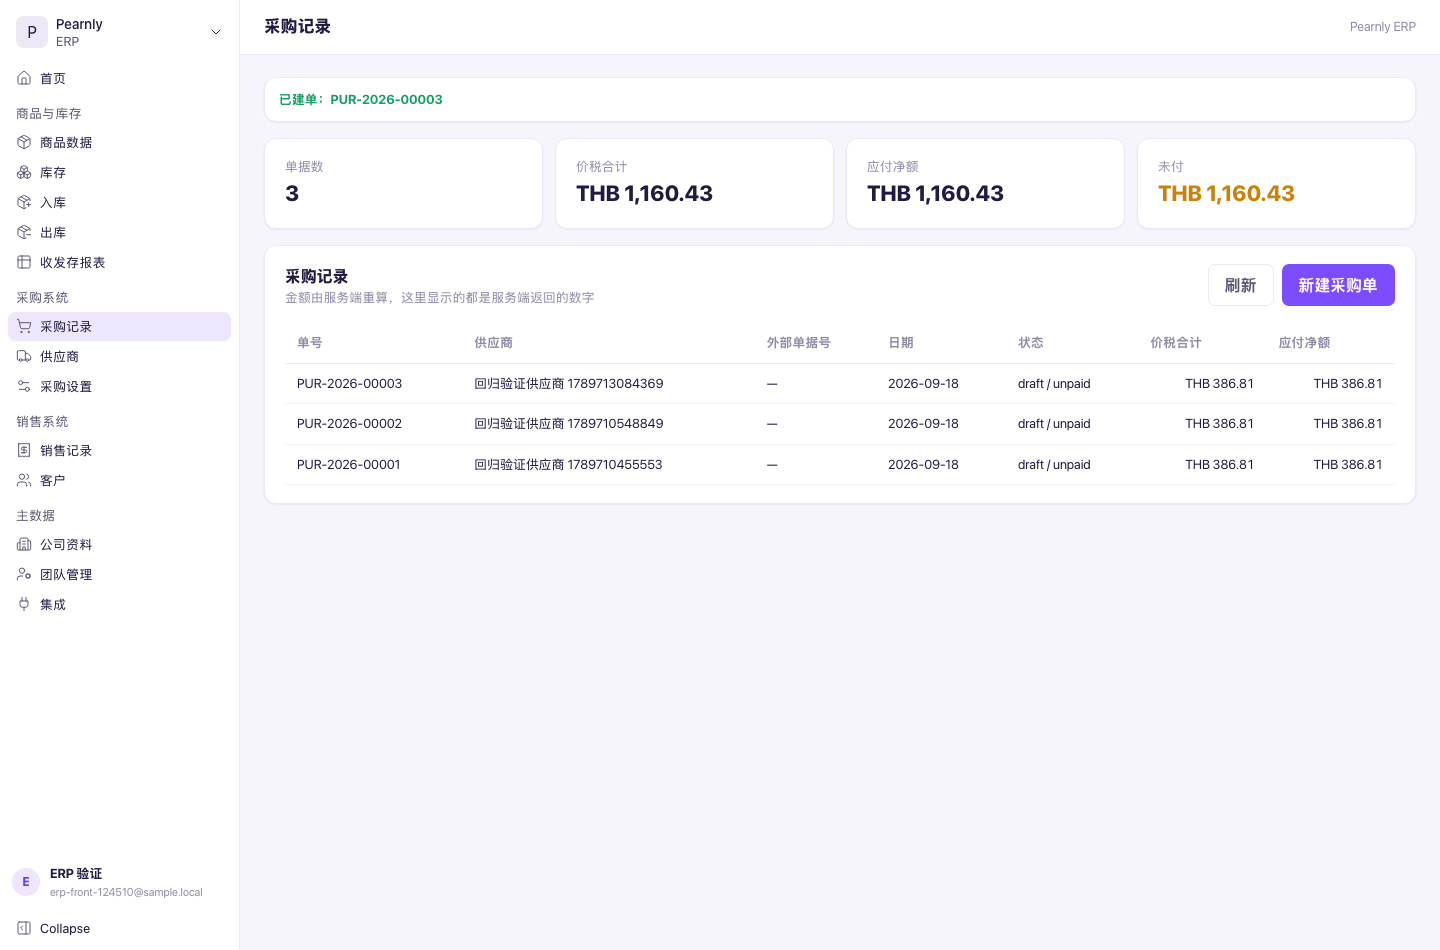
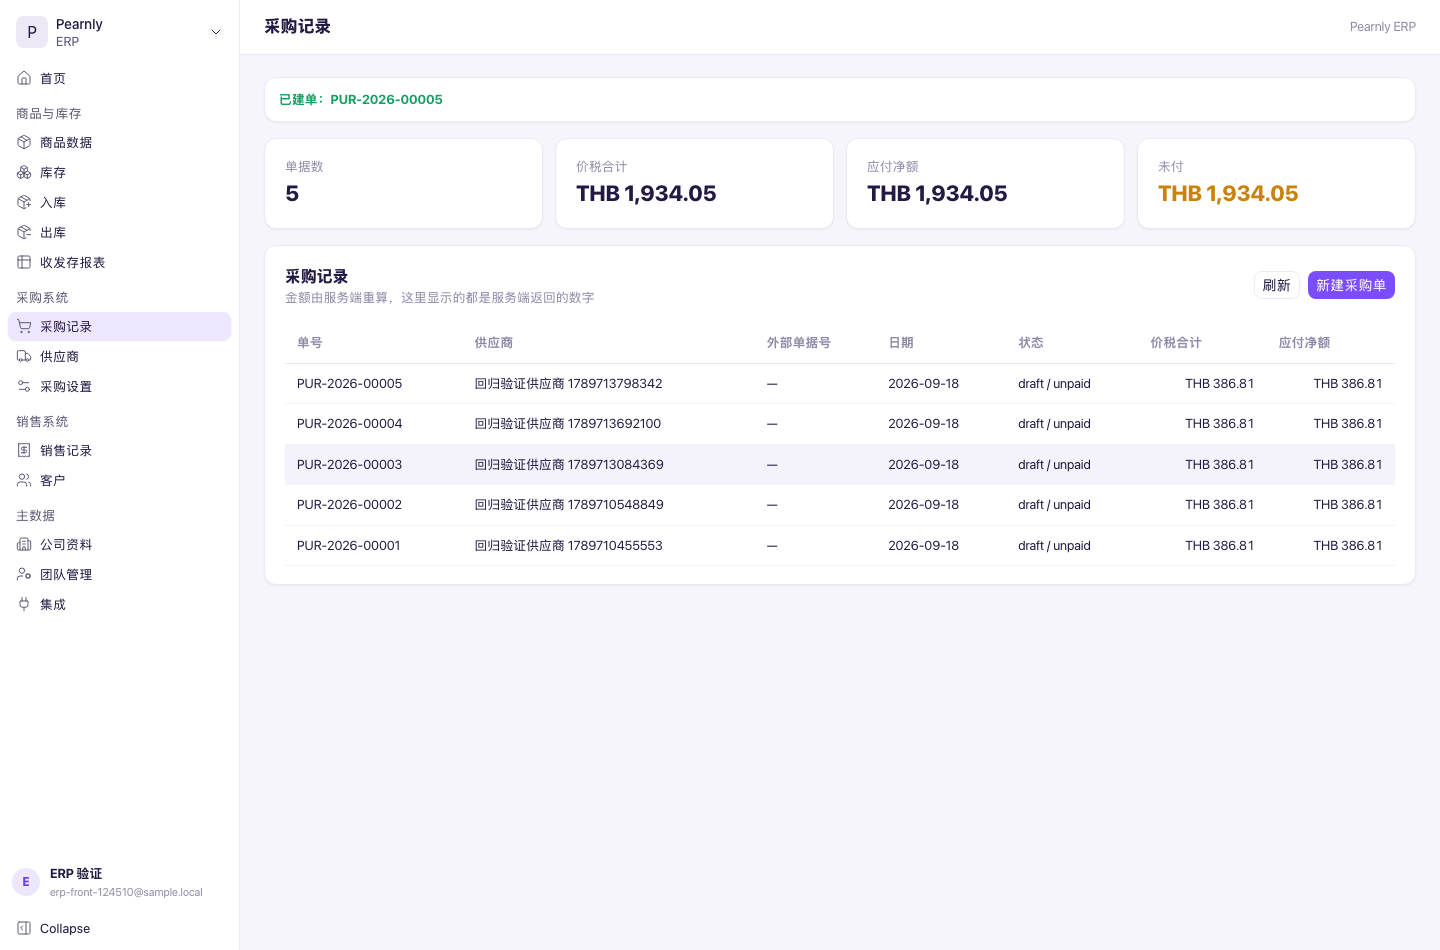
控件改用官方原生的尺寸与间距，只有配色是我们的
用户 2026-09-18："按钮大小，间距都用官方原生的，操作习惯还是用我们的。"

落法：
- 按钮用官方 Button 组件（尺寸档 sm/md/lg、内边距、圆角、悬停禁用态都归它）
- 输入框用官方原生类 form-input（高度 h-7、圆角、内边距都是官方的）
- 配色用 .pn-primary 补（官方 Button 只有 gray/blue/green/red，没有我们的紫）——
  它只改配色，尺寸一概不碰
- 页面布局与操作流程不变（表单分几列、按钮放哪、先做什么，都是我们的）

删掉原来手写的 .pn-btn / .pn-input：自己定一套尺寸就是第二套设计语言，
与"用官方原生的"相反。

实测值（验证脚本新增 4 条断言盯着，改了尺寸就失败）：
  按钮高 28px（官方 sm 档 h-7）、内边距 0 8px、圆角 8px
  官方原生输入框同样 28px 高
  主按钮底色 rgb(124,77,255) = 我们的 --accent

20 项全过。

diff --git a/frontend/src/pages/purchase/PurchasePage.vue b/frontend/src/pages/purchase/PurchasePage.vue
@@ -8,6 +8,7 @@
 // 金额**不在前端算**：服务端会从小发明细重算小计/增值税/价税合计/应付净额。
 // 这里展示的都是服务端返回的数字。
 import { computed, onMounted, reactive, ref } from "vue";
+import { Button } from "frappe-ui";
 import { call, ApiError } from "../../lib/api";
 
 interface Row {
@@ -178,12 +179,22 @@ onMounted(refresh);
           <div class="pn-muted">金额由服务端重算，这里显示的都是服务端返回的数字</div>
         </div>
         <div style="display: flex; gap: 8px">
-          <button class="pn-btn pn-btn--ghost" :disabled="loading" @click="refresh">
-            {{ loading ? "加载中…" : "刷新" }}
-          </button>
-          <button class="pn-btn" @click="showForm = !showForm">
-            {{ showForm ? "收起" : "新建采购单" }}
-          </button>
+          <!-- 尺寸/间距用官方原生的（Button 自带尺寸档与内边距），只有主色用我们的
+               （pn-primary）—— 操作习惯与流程不变。 -->
+          <Button
+            variant="outline"
+            theme="gray"
+            :label="loading ? '加载中…' : '刷新'"
+            :disabled="loading"
+            @click="refresh"
+          />
+          <Button
+            variant="solid"
+            theme="gray"
+            class="pn-primary"
+            :label="showForm ? '收起' : '新建采购单'"
+            @click="showForm = !showForm"
+          />
         </div>
       </div>
 
@@ -191,15 +202,15 @@ onMounted(refresh);
         <div style="display: grid; grid-template-columns: 2fr 1fr 1fr; gap: 12px">
           <label>
             <span class="pn-muted">供应商</span>
-            <input v-model="draft.supplier_name" class="pn-input" placeholder="供应商名称" />
+            <input v-model="draft.supplier_name" class="form-input w-full" placeholder="供应商名称" />
           </label>
           <label>
             <span class="pn-muted">单据日期</span>
-            <input v-model="draft.doc_date" type="date" class="pn-input" />
+            <input v-model="draft.doc_date" type="date" class="form-input w-full" />
           </label>
           <label>
             <span class="pn-muted">外部单据号</span>
-            <input v-model="draft.doc_no" class="pn-input" placeholder="可留空" />
+            <input v-model="draft.doc_no" class="form-input w-full" placeholder="可留空" />
           </label>
         </div>
 
@@ -210,21 +221,30 @@ onMounted(refresh);
             :key="index"
             style="display: grid; grid-template-columns: 3fr 1fr 1fr 1fr auto; gap: 8px; margin-bottom: 8px"
           >
-            <input v-model="line.description" class="pn-input" placeholder="品名 / 说明" />
-            <input v-model.number="line.qty" type="number" step="0.01" class="pn-input" placeholder="数量" />
-            <input v-model.number="line.unit_price" type="number" step="0.01" class="pn-input" placeholder="单价" />
-            <input v-model.number="line.vat_rate" type="number" step="0.01" class="pn-input" placeholder="税率%" />
-            <button class="pn-btn pn-btn--ghost" :disabled="draft.lines.length === 1" @click="removeLine(index)">
-              删
-            </button>
+            <input v-model="line.description" class="form-input w-full" placeholder="品名 / 说明" />
+            <input v-model.number="line.qty" type="number" step="0.01" class="form-input w-full" placeholder="数量" />
+            <input v-model.number="line.unit_price" type="number" step="0.01" class="form-input w-full" placeholder="单价" />
+            <input v-model.number="line.vat_rate" type="number" step="0.01" class="form-input w-full" placeholder="税率%" />
+            <Button
+              variant="outline"
+              theme="gray"
+              label="删"
+              :disabled="draft.lines.length === 1"
+              @click="removeLine(index)"
+            />
           </div>
-          <button class="pn-btn pn-btn--ghost" @click="addLine">加一行</button>
+          <Button variant="outline" theme="gray" label="加一行" @click="addLine" />
         </div>
 
         <div style="margin-top: 16px; display: flex; gap: 8px; align-items: center">
-          <button class="pn-btn" :disabled="!canSubmit" @click="submit">
-            {{ saving ? "提交中…" : "保存采购单" }}
-          </button>
+          <Button
+            variant="solid"
+            theme="gray"
+            class="pn-primary"
+            :label="saving ? '提交中…' : '保存采购单'"
+            :disabled="!canSubmit"
+            @click="submit"
+          />
           <span class="pn-muted">合计由服务端算，不用填</span>
         </div>
       </div>

diff --git a/frontend/src/styles/app.css b/frontend/src/styles/app.css
@@ -123,57 +123,29 @@ body {
   font-weight: 650;
 }
 
-/* 控件高度节奏沿用令牌（ADR-007：控件高度从 --ctrl-* 取） */
-.pn-btn {
-  display: inline-flex;
-  align-items: center;
-  justify-content: center;
-  gap: 6px;
-  padding: var(--ctrl-pad-y) var(--ctrl-pad-x);
-  border: 1px solid transparent;
-  border-radius: var(--radius);
-  font-size: var(--ctrl-font);
-  font-weight: 700;
-  cursor: pointer;
+/* ── 控件：尺寸/间距用官方原生的，只有颜色是我们的 ──────────────────────
+ *
+ * 用户 2026-09-18："按钮大小，间距都用官方原生的，操作习惯还是用我们的。"
+ *
+ * 所以按钮用官方 `Button` 组件（尺寸档 sm/md/lg 与内边距都归它），
+ * 输入框用官方原生类 `form-input`（高度 h-7、圆角、内边距都是官方的）。
+ *
+ * 这里**只**补官方没有的那一件事：主色。官方 Button 只有 gray/blue/green/red
+ * 四个主题，没有我们的紫，所以加一个只改配色的类，不改尺寸。
+ * 它必须靠"在样式表里排最后"来盖住官方工具类（见 main.ts 的引入顺序）。
+ */
+.pn-primary {
   background: var(--accent);
   color: var(--accent-ink);
 }
 
-.pn-btn:hover {
+.pn-primary:hover {
   background: var(--accent-deep);
 }
 
-.pn-btn:disabled {
+.pn-primary:disabled {
   opacity: 0.55;
   cursor: not-allowed;
-}
-
-.pn-btn--ghost {
-  background: var(--card);
-  border-color: var(--line);
-  color: var(--ink2);
-}
-
-.pn-btn--ghost:hover {
-  background: var(--line2);
-  color: var(--ink);
-}
-
-.pn-input {
-  width: 100%;
-  padding: var(--ctrl-pad-y) var(--ctrl-pad-x);
-  border: 1px solid var(--line);
-  border-radius: var(--radius);
-  background: var(--card);
-  color: var(--ink);
-  font-size: var(--ctrl-font);
-  font-family: inherit;
-}
-
-.pn-input:focus {
-  outline: 0;
-  border-color: var(--accent);
-  box-shadow: 0 0 0 3px var(--accent-weak);
 }
 
 .pn-table {

diff --git a/frontend/src/pages/NotBuiltPage.vue b/frontend/src/pages/NotBuiltPage.vue
@@ -4,6 +4,7 @@
 // 为什么要有这个页而不是直接 404：菜单项是照清单列出来的（甲方看到的就是这些入口），
 // 点进去 404 会让人以为是坏了。这里如实说"还没做"，把"清单是什么"和"做到哪了"分开。
 import { useRoute } from "vue-router";
+import { Button } from "frappe-ui";
 
 const route = useRoute();
 </script>
@@ -14,6 +15,6 @@ const route = useRoute();
     <p class="pn-muted" style="margin: 0 0 12px">
       菜单是照页面清单列出来的，功能还没实现。当前路由：<code>{{ route.path }}</code>
     </p>
-    <RouterLink class="pn-btn pn-btn--ghost" to="/home">回到首页</RouterLink>
+    <Button variant="outline" theme="gray" label="回到首页" route="/home" />
   </div>
 </template>

diff --git a/frontend/src/main.ts b/frontend/src/main.ts
@@ -6,8 +6,10 @@ import { router } from "./router";
 // 走打包器引入而不是 index.html 里挂 <link>：这样它会带 hash 参与构建，
 // 不会被站点缓存成旧版本。
 import "../design/pearnly-ui.css";
-import "./styles/app.css";
-// Tailwind 与"把官方组件配色接到我们令牌上"的覆盖放最后：它要盖住 Tailwind 的 base 层
 import "./styles/tailwind.css";
+// app.css 放最后：我们的样式要能盖住 Tailwind 的工具类
+// （例如给官方按钮指定主色，靠的就是"我们的类在后"）。
+// Tailwind 自己带 base 层，所以 tailwind.css 必须排在 design 之后。
+import "./styles/app.css";
 
 createApp(App).use(router).mount("#app");

diff --git a/docs/adr/0007-frontend-skin.md b/docs/adr/0007-frontend-skin.md
@@ -54,6 +54,19 @@ Frappe UI 把颜色写成 CSS 变量（`--surface-menu-bar` / `--ink-gray-*` / `
 验证脚本里有三条断言盯着这件事（侧栏底色 = `--card`、文字 = `--ink`、选中高亮 = `--accent-weak`）——
 哪天有人把官方默认色盖回来，测试会失败。
 
+### 尺寸与间距不自己定
+
+用户 2026-09-18 进一步定了边界："按钮大小，间距都用官方原生的，操作习惯还是用我们的。"
+
+| | 归谁 |
+|---|---|
+| 控件尺寸、内边距、圆角、悬停/禁用态 | **官方**（按钮用官方 `Button`，输入框用官方原生 `form-input`） |
+| 配色 | **我们**（官方 Button 无紫色主题，用一个只改配色的类补，尺寸不碰） |
+| 页面布局与操作流程 | **我们** |
+
+所以**不要再写自成一体的 `.pn-btn` / `.pn-input`** —— 那等于第二套设计语言。
+本仓前端已经删掉那套，改用官方控件 + `.pn-primary`（仅配色）。
+
 这样两边的职责是清楚的：
 
 | 管什么 | 谁管 |
